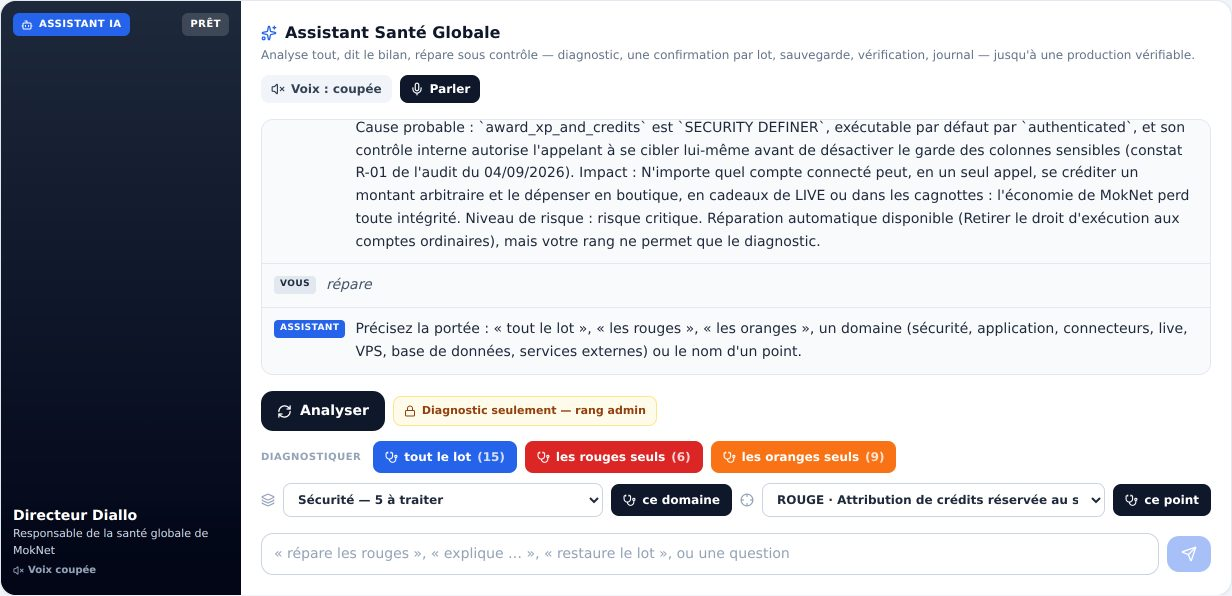
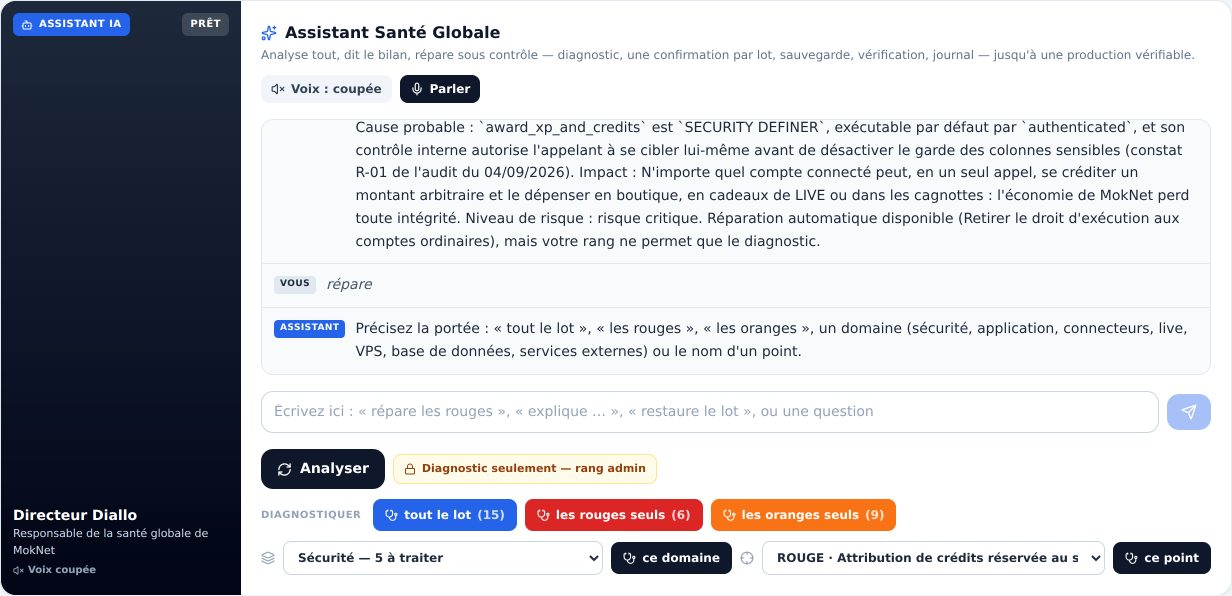
feat(sante): Assistant Santé Globale — le champ de dialogue placé juste sous la conversation, rien à activer (v6.40.1) (#104)
La Direction demandait où se fait le dialogue avec l'Assistant et comment l'activer. Le champ de saisie est désormais juste sous la conversation (touche Entrée ou bouton Envoyer), placeholder « Écrivez ici : … ». Rien n'est à activer : le dialogue est ouvert à tout administrateur, seul l'acte d'appliquer une réparation exige le rang Admin Général (garde serveur inchangée). Captures régénérées (quatre parcours, 0 erreur JS), README des captures « Où se fait le dialogue », mémoire vivante v6.40.1 (DEC-2026-060, ajustement). Typage 0 erreur, 1588/1588 tests.

Claude-Session: https://claude.ai/code/session_01EkBFwqPaEpZguZAEQDfhDx

Changed region(s): [[0.1851, 0.6342, 0.987, 0.9664], [0.9253, 0.6644, 0.987, 0.7248]]

diff --git a/components/admin/HealthAssistant.tsx b/components/admin/HealthAssistant.tsx
@@ -472,6 +472,18 @@ export const HealthAssistant: React.FC<HealthAssistantProps> = ({
                         )}
                     </div>
 
+                    {/* Consigne écrite — juste sous le dialogue, là où l'on répond à ce qu'on vient de lire */}
+                    <form onSubmit={envoyer} className="flex items-center gap-2">
+                        <label htmlFor="assistant-saisie" className="sr-only">Consigne ou question</label>
+                        <input id="assistant-saisie" type="text" value={saisie} onChange={(e) => setSaisie(e.target.value)} autoComplete="off"
+                               placeholder="Écrivez ici : « répare les rouges », « explique … », « restaure le lot », ou une question"
+                               className="flex-1 min-w-0 rounded-xl border border-slate-300 px-3 py-2.5 text-sm text-slate-900 placeholder:text-slate-400 focus:outline-none focus:ring-2 focus:ring-blue-500" />
+                        <button type="submit" disabled={!saisie.trim()} aria-label="Envoyer"
+                                className="px-3.5 py-2.5 rounded-xl bg-blue-600 text-white hover:bg-blue-700 disabled:opacity-40 focus-visible:outline-none focus-visible:ring-2 focus-visible:ring-blue-500">
+                            <Send size={16} />
+                        </button>
+                    </form>
+
                     {/* Commandes */}
                     <div className="space-y-2.5">
                         <div className="flex flex-wrap items-center gap-2">
@@ -545,18 +557,6 @@ export const HealthAssistant: React.FC<HealthAssistantProps> = ({
                     {campagne && (
                         <Progression campagne={campagne} occupe={occupe} onArreter={arreter} />
                     )}
-
-                    {/* Consigne écrite */}
-                    <form onSubmit={envoyer} className="flex items-center gap-2">
-                        <label htmlFor="assistant-saisie" className="sr-only">Consigne ou question</label>
-                        <input id="assistant-saisie" type="text" value={saisie} onChange={(e) => setSaisie(e.target.value)} autoComplete="off"
-                               placeholder="« répare les rouges », « explique … », « restaure le lot », ou une question"
-                               className="flex-1 min-w-0 rounded-xl border border-slate-300 px-3 py-2.5 text-sm text-slate-900 placeholder:text-slate-400 focus:outline-none focus:ring-2 focus:ring-blue-500" />
-                        <button type="submit" disabled={!saisie.trim()} aria-label="Envoyer"
-                                className="px-3.5 py-2.5 rounded-xl bg-blue-600 text-white hover:bg-blue-700 disabled:opacity-40 focus-visible:outline-none focus-visible:ring-2 focus-visible:ring-blue-500">
-                            <Send size={16} />
-                        </button>
-                    </form>
                 </div>
             </div>
 

diff --git a/docs/ETAT_ACTUEL.md b/docs/ETAT_ACTUEL.md
@@ -11,7 +11,7 @@
 
 **5 septembre 2026 — Composeur « A7, rail latéral » et studio « Visuel IA » B10 (DEC-2026-061, v6.26.0 — EN PRODUCTION CONTRÔLÉE, PR #93).** La Direction a choisi, après dix propositions, dix variantes puis deux séries de dix, la variante **A7** pour la zone « créer une publication » et la variante **B10** pour le studio Visuel IA intégré à la publication, avec une production contrôlée à zéro régression. Le composeur garde tout (avatar intouché, champ et invite, Assistant IA, améliorer le style, traduire, hashtags, Visuel IA, Public, Tech & Innovation, photo, vidéo, document, voix, brouillon, publier) et change d'habillage : quatre médias en orbes de cristal sur un rail à gauche du champ (sous le champ sur tablette et téléphone), l'Assistant IA en orbe d'or dans le champ, les quatre actions IA nommées sous le champ (la modale existante s'ouvre directement sur le bon onglet), compteur de caractères, Brouillon | Publier groupés. **« Visuel IA » ouvre un vrai studio de retouche dans la publication** (plein écran sombre) : Prompt — l'IA de la plateforme regarde la photo et renvoie des réglages, jamais une image réinventée ; sans photo, elle génère l'image — ou Réglages manuels (visage & cheveux, lumière, cinéma, texte, cadrage, vidéo), rendus par un vrai pipeline de pixels, avant / après, annuler, réinitialiser, insertion d'un JPEG à pleine résolution qui part avec la publication ; vidéo ré-encodée par le navigateur quand il le permet, message honnête sinon ; la retouche ciblée (yeux, dents, mèche) n'est pas simulée, l'écran le dit. **Contrôle indépendant** : revue « À CORRIGER » (1 bloquant : studio remis à zéro par un re-rendu du parent ; 4 importants : requête de conteneur morte sur tablette / téléphone, réponse IA vide prise pour un succès, focus non rendu, export vidéo Safari ; 15 mineurs) — les 5 premiers et 10 mineurs corrigés et couverts par des tests (DEC-2026-061). **Preuves** : tsc 0, vitest 1233/1233 (86 fichiers, 57 dédiés), build, captures avant/après mesurées à 1440×900, 820×1180 et 390×844 (`docs/captures/2026-09-05-composeur-a7-studio-b10/` : 0 cible sous 40 px contre 7 sur 7 avant, champ de 262 px sur téléphone avec la grille à deux colonnes, avatar 44 × 44 sur les trois écrans, studio ouvert avec racine inerte, insertion vérifiée). Contre-vérification indépendante : les cinq constats confirmés corrigés, une régression relevée (avatar écrasé à 40 × 44 par la colonne de grille) et corrigée. **Production : oui, contrôlée** — feu vert écrit de la Direction (« Feu vert pour avancer vers une production contrôlée […] étape par étape »), PR #93 fusionnée en squash (`36e0a44`) le 5/09 à 12:38 UTC après Green Gate vert sur la tête finale `94514df` (run 33966471120) et contre-vérification indépendante « PRÊT » ; Green Gate vert sur `main` (run 33966591144) ; `moknet.net` sert `index-ggiwFepQ.js` depuis le 5/09/2026 à 12:38:39 UTC (même bundle que le preview contrôlé de la tête `94514df`), la page servie porte les blocs « COMPOSEUR A7 « RAIL LATERAL » (DEC-2026-061) » (`.a7-grille`, `@container a7 (max-width: 560px)`, colonne d'avatar 44 px) et « VISUEL IA — STUDIO PLEIN ECRAN SOMBRE » (`.vis-feuille > * { flex: none; }`), le bundle contient `composeur-a7`, `a7-rail`, `a7-medias-bas`, `a7-etincelle`, `visuel-ia-studio`, « Insérer dans la publication », le message système du retoucheur et l'invite inchangée du champ, l'ancienne barre d'outils en est absente, l'ancien bundle `index-JAHL7yTa.js` répond 404 ; miroir local de la production ouvert dans Chromium (ordinateur et téléphone) : racine React montée, règles `.a7-comp`, `.a7-orbe`, `.vis-feuille`, `.vis-feuille > *` et `@container a7` analysées par le navigateur (le composeur lui-même est derrière la connexion, hors de portée du bac à sable). Retour arrière disponible par `git revert` du squash ; aucun incident constaté. La Direction a annoncé contrôler après coup et transmettre les corrections éventuelles.
 
-**5 septembre 2026 — Assistant IA de Santé Globale (DEC-2026-060, v6.25.0 — EN PRODUCTION CONTRÔLÉE, PR #91 fusionnée en squash `b36318b`, `moknet.net` sert `index-JAHL7yTa.js` depuis le 5/09 à 11:14 UTC).** La Direction a demandé un Assistant IA « vocal et texte, avatar naturel si possible via l'existant, responsable de la santé globale de l'application jusqu'à une production contrôlée ». Sous la barre de commandement de Santé Globale, le panneau **« Assistant Santé Globale »** réutilise l'avatar Directeur Diallo, le moteur vocal partagé (ElevenLabs HD, secours navigateur annoncé) et la reconnaissance du navigateur : **Analyser** scanne tout avec la progression réelle des sondes et dit le bilan (état, santé % sur couverture, sécurité % contre l'audit du 4/09, comptes, priorités, réparations automatiques / manuelles, rang) ; **Réparer** tout le lot / les rouges seuls / les oranges seuls / un domaine / un point enchaîne diagnostic de chaque point, **une seule confirmation** sur le périmètre exact, réparation point par point avec « Boucle i/n · X % », et rapporte chaque point (réparé et vérifié, diagnostiqué, échec avec **cause, étapes exactes et lien**, action manuelle avec l'endroit exact) ; si c'est incontrôlable (réseau, serveur, droits, deux échecs de suite) : **arrêt immédiat** et **« Restaurer le lot »** (sauvegardes rejouées en ordre inverse) ; avec le rang `admin` d'aujourd'hui l'Assistant écrit « Diagnostiquer » et ne modifie rien. Une question libre passe par la passerelle IA avec les mesures en contexte, réponse étiquetée « IA — à vérifier ». 39 tests, harnais sur mesures de production en quatre parcours (`docs/captures/2026-09-05-sante-assistant/`). Pas de vidéo HeyGen (rendu de plusieurs minutes contre une passerelle synchrone — évolution séparée).
+**5 septembre 2026 — Assistant IA de Santé Globale (DEC-2026-060, v6.25.0 — EN PRODUCTION CONTRÔLÉE, PR #91 fusionnée en squash `b36318b`, `moknet.net` sert `index-JAHL7yTa.js` depuis le 5/09 à 11:14 UTC).** La Direction a demandé un Assistant IA « vocal et texte, avatar naturel si possible via l'existant, responsable de la santé globale de l'application jusqu'à une production contrôlée ». Sous la barre de commandement de Santé Globale, le panneau **« Assistant Santé Globale »** réutilise l'avatar Directeur Diallo, le moteur vocal partagé (ElevenLabs HD, secours navigateur annoncé) et la reconnaissance du navigateur : **Analyser** scanne tout avec la progression réelle des sondes et dit le bilan (état, santé % sur couverture, sécurité % contre l'audit du 4/09, comptes, priorités, réparations automatiques / manuelles, rang) ; **Réparer** tout le lot / les rouges seuls / les oranges seuls / un domaine / un point enchaîne diagnostic de chaque point, **une seule confirmation** sur le périmètre exact, réparation point par point avec « Boucle i/n · X % », et rapporte chaque point (réparé et vérifié, diagnostiqué, échec avec **cause, étapes exactes et lien**, action manuelle avec l'endroit exact) ; si c'est incontrôlable (réseau, serveur, droits, deux échecs de suite) : **arrêt immédiat** et **« Restaurer le lot »** (sauvegardes rejouées en ordre inverse) ; avec le rang `admin` d'aujourd'hui l'Assistant écrit « Diagnostiquer » et ne modifie rien. Une question libre passe par la passerelle IA avec les mesures en contexte, réponse étiquetée « IA — à vérifier ». 39 tests, harnais sur mesures de production en quatre parcours (`docs/captures/2026-09-05-sante-assistant/`). Pas de vidéo HeyGen (rendu de plusieurs minutes contre une passerelle synchrone — évolution séparée). **Ajustement v6.40.1 (PR #104)** : le champ de dialogue est placé juste sous la conversation ; rien à activer, le dialogue est ouvert à tout administrateur, seul l'acte d'appliquer une réparation exige le rang Admin Général.
 
 **5 septembre 2026 — Bande « Aurore » du Réseau MOC (DEC-2026-058, v6.23.0 — EN PRODUCTION CONTRÔLÉE, PR #89).** La Direction a choisi, parmi dix variantes bâties sur la direction « Orbes lumineux », la variante 3 « Aurore » et demandé son implémentation seule, sans rien toucher d'autre. La carte d'accès rapide sous le composeur passe de sept pastilles carrées à **seize orbes de cristal** dans l'ordre imposé, une teinte par entrée, en damier sur deux rangées de huit ; l'orbe de la section courante se remplit ; halo qui respire, soulèvement et lueur au survol (vrais pointeurs seulement) ; rail aimanté avec libellés courts sur tablette et téléphone ; tout s'arrête sous `prefers-reduced-motion`. Les sept entrées d'origine gardent leurs actions, les neuf nouvelles ouvrent l'espace du menu latéral qui porte le même nom. **Contrôle indépendant** avant fusion : sept constats (trois importants : halo devant l'orbe au survol, « Fil d'actu » en 17e orbe, contraste de l'orbe active), tous corrigés et revérifiés. **Preuves** : tsc 0, vitest 1104/1104 (78 fichiers), build, 10 tests dédiés, captures avant/après à 1440×900, 820×1180 et 390×844 (`docs/captures/2026-09-05-reseau-bande-aurore/`). **Production : oui, contrôlée** — feu vert écrit dans la mission elle-même (« amener en production […] Livrable : production en place »), PR #89 fusionnée en squash (`6f9d062`) le 5/09 à 09:57 UTC après un Green Gate vert sur la tête finale `2bbe45f` (run 33959258373) et la contre-vérification indépendante « PRÊT » ; Green Gate vert sur `main` (run 33959347666) ; `moknet.net` sert `index-CgZyiRwk.js` depuis 09:57:56 UTC (même bundle que le preview contrôlé), la page servie porte le bloc « BANDE AURORE (DEC-2026-058) », les marqueurs du bundle sont présents et l'ancienne grille absente, l'ancien bundle `index-6F5PzUd7.js` répond 404 ; miroir local de la production ouvert dans Chromium (ordinateur et téléphone) : racine React montée, règles `.aurore-bulle` / orbe courante, `@keyframes aurore-halo` et les deux `@container aurore` analysés, aucune erreur JS applicative. Le contrôle visuel final dans l'application appartient à la Direction.
 

diff --git a/docs/HISTORIQUE_VERSIONS.md b/docs/HISTORIQUE_VERSIONS.md
@@ -55,6 +55,7 @@
 | **v6.36.0** | 5 Septembre 2026 | **Le modèle validé par la Direction (vidéo HeyGen de l'Architecte, expressivité moyenne, 720p, voix HD) devient la base ferme, intégré par ajout : séquence livrée avec l'application (MP4 + WebM, poster, légendes, empreintes vérifiées par les tests), lecteur à états qui rend toujours la main au rig 2D, couche vidéo dans le cadre même de l'avatar, bouton « Voir l'avatar vidéo » sur `/architecte`, « Présentation » dans la barre flottante (invitation une fois par appareil, sans démarrage automatique), réglage Super-Admin et prévisualisation ; rien supprimé** | Avatar de l'Architecte (`services/architecte/sequences.ts`, `ArchitecteSequenceVideo`, page `/architecte`, barre flottante, carte Super-Admin), `public/architecte/vision-smart-heygen.*` | branche `claude/moknet-studio-avatar-rjvvip` / DEC-2026-072 / PR #71 | **Prévisualisation de branche** — typage 0, 1 422 tests / 92 fichiers, build ✓ ; fusion contrôlée préparée, feu vert production attendu |
 | **v6.39.0** | 5 Septembre 2026 | **Avatar vivant depuis une photo : option Super-Admin « Créer ou remplacer l'avatar vivant depuis une photo » — analyse automatique dans le navigateur (MediaPipe : 478 repères du visage, silhouette), cadrage au portrait d'usine, rig et bouche calculés, masque de détourage propre à la photo, aperçu vivant actuel / nouveau, validation, sauvegarde, retour arrière ; le modèle vidéo validé ne se joue que sur son portrait d'origine ; aucun panneau par-dessus l'application ; rien supprimé** | Super-Admin (carte `AdminArchitecteAvatarCard`), `services/architecte/photoAvatar.ts`, `photoAvatarEngine.ts`, `architecteAvatar.ts`, `sequences.ts`, barre flottante, `public/architecte/modeles/`, banc `design-lab/banc/super-admin-avatar.html` | branche `claude/moknet-studio-avatar-rjvvip` / DEC-2026-077 | **Remplacée par la v6.40.0 le 5/09/2026 à 15:13 UTC — était en production contrôlée depuis le 5/09/2026 à 14:25 UTC** : PR #101 fusionnée en squash → `main` `f64f7ee` (Green Gate vert sur `5bb9566`, run 33971591543), `moknet.net` sert `index-Bm6woHcd.js` avec les marqueurs de l'option, morceau MediaPipe et modèles servis (tailles exactes), ancien bundle `index-D0ScDC87.js` → 404 ; typage 0, 1 588 tests / 104 fichiers, build ✓, essai navigateur réel Super-Admin + application, ordinateur + téléphone (14 captures, mesures) |
 | **v6.40.0** | 5 Septembre 2026 | **Réseau MOC : même disposition des boutons de publication et des options sur ordinateur et téléphone — sur téléphone, le rail des médias (Photo, Vidéo, Document, Voix) garde ses libellés et descend sous l'avatar dans la même colonne, les quatre actions IA restent nommées sur une ligne sous leur intitulé, et la bande « Aurore » passe du rail défilant à une grille 4 × 4 (damier conservé) sans aucun défilement horizontal ; ordinateur inchangé ; repli conservé pour les cartes très étroites ; CSS seulement, avatar intouché** | Réseau MOC (composeur A7, bande Aurore), index.html | branche `claude/cleanup-home-interface-szp8qv` / DEC-2026-078 (v6.38.0 et v6.39.0, DEC-2026-075 à 077, prises entre-temps par les PR #98 et #101 du Studio Avatar) | **Courante (Active) — EN PRODUCTION CONTRÔLÉE depuis le 5/09/2026 à 15:13 UTC** : PR #100 fusionnée en squash → `main` `a615593` à 15:12:30 UTC sur feu vert écrit (Green Gate vert sur `a921a2f`, runs 33973191332 et 33973186563, et sur `main`, run 33974090869), `moknet.net` sert la nouvelle feuille depuis 15:13:19 UTC (bundle `index-Bm6woHcd.js` inchangé — CSS seulement ; marqueurs présents, aucun seuil 300/360 px, aucune règle de défilement dans la bande, ancien bundle `index-DnzvQMzK.js` → 404), miroir local vérifié dans Chromium, revue indépendante « À CORRIGER » (6 constats corrigés) puis contre-vérification « PRÊT » ; typage 0 erreur, 1589/1589 tests (104 fichiers), build OK, captures et mesures avant/après sur six écrans (`docs/captures/2026-09-05-reseau-meme-disposition-telephone/`, script `mesurer.cjs` versionné) |
+| **v6.40.1** | 5 Septembre 2026 | **Assistant IA de Santé Globale : le champ de dialogue est placé juste sous la conversation (touche Entrée ou bouton Envoyer), placeholder « Écrivez ici : … » ; rien à activer, le dialogue est ouvert à tout administrateur, seul l'acte d'appliquer une réparation exige le rang Admin Général** | Super-Admin / Santé Globale (`components/admin/HealthAssistant.tsx`) | branche `claude/moknet-security-audit-ohfwc1` / DEC-2026-060 (ajustement) / PR #104 | **PR #104 ouverte — fusion en squash après Green Gate, bundle servi à vérifier** : typage 0 erreur, 1588/1588 tests (104 fichiers), harnais Chromium sur mesures de production du 5/09 (quatre parcours, 0 erreur JS, captures régénérées dans `docs/captures/2026-09-05-sante-assistant/`) |
 | **v6.38.0** | 5 Septembre 2026 | **Zéro obstruction strict : l'Architecte guide dans l'interface visible, jamais par-dessus — le panneau de conversation ne s'ouvre plus JAMAIS de lui-même (réponse longue, image, document ou vidéo : signalés par un point sur la flèche, dépliés seulement par la personne) ; Écrire ouvre une seule ligne de saisie ; rouvrir repart toujours de la barre minimale ; panneau borné à min(36 vh, 18 rem) ; obstruction mesurée après une réponse longue : 2,6 % de l'écran sur ordinateur, 6,8 % sur téléphone, panneau absent, dock libre ; rien supprimé ; **identité officielle « Je suis l'Architecte de Vision Smart » (jamais « avatar » ni « IA »), description validée servie sans modèle, ton bref, dit quand il ne comprend pas ; entrée directe sur Réseau MokNet dès connexion ou inscription, sans rechargement** | Avatar de l'Architecte (barre flottante `ArchitecteFloatingBar`, cerveau `architecteBrain`), entrée `App.tsx`, banc `design-lab/banc/sculpture.html` | branche `claude/moknet-studio-avatar-rjvvip` / DEC-2026-075, DEC-2026-076 | **Remplacée par la v6.39.0 le 5/09/2026 à 14:25 UTC — était en production contrôlée depuis le 5/09/2026 à 14:11 UTC** : PR #98 fusionnée en squash → `main` `022a224` (Green Gate vert sur `4774573`, run 33970158515), `moknet.net` sert `index-D0ScDC87.js` avec les huit marqueurs attendus (ancien bundle `index-DnzvQMzK.js` → 404) ; typage 0, 1 573 tests / 102 fichiers, essai navigateur réel ordinateur + téléphone (16 captures, obstruction mesurée), test d'entrée App réelle |
 | **v6.37.0** | 5 Septembre 2026 | **La sculpture vivante : l'avatar validé (vidéo HeyGen) remplace directement le bouton flottant de l'Architecte, au même emplacement, détouré image par image (204 mattes relevées en local, vidéo empilée couleurs + alpha recomposée dans un canevas), sans cadre ni page ; seul visible par défaut ; au clic il parle (modèle validé, dans le geste) et n'ouvre qu'une petite barre d'icônes à côté de lui — accueil et micro attendent la fin de la vidéo ; panneau étroit à la demande (flèche) ; **zéro obstruction mesurée** (0,9 % de l'écran au repos, 2,4 % barre ouverte sur ordinateur ; dock libre sur téléphone) ; calage vidéo ↔ portrait mesuré sur les pupilles ; lecteur corrigé d'après la relecture indépendante (double appui, fin réelle, arrêt par cadre) ; rien supprimé, rig 2D en repli** | Avatar de l'Architecte (`ArchitecteAvatar` variante `sculpture`, `ArchitecteSequenceCutout`, barre flottante), `public/architecte/vision-smart-heygen.cutout.*`, `architecte-silhouette.png`, banc `design-lab/banc/sculpture.html` | branche `claude/moknet-studio-avatar-rjvvip` / DEC-2026-073 / PR #71 | **Remplacée par la v6.38.0 le 5/09/2026 à 14:11 UTC — était en production contrôlée depuis le 5/09/2026 à 13:01 UTC** : PR #71 fusionnée en squash → `main` `d9c2c2c` (Green Gate vert sur `9dd10f1`, run 33967521429), `moknet.net` sert `index-DnzvQMzK.js` avec les marqueurs de la sculpture (ancien bundle `index-ggiwFepQ.js` → 404), actifs détourés servis avec tailles et empreintes attendues, page `/architecte` vérifiée en Chromium réel ; typage 0, 1 562 tests / 101 fichiers, build ✓, essai navigateur réel ordinateur + téléphone (captures, obstruction mesurée) |
 

diff --git a/docs/modules/14_securite_et_infrastructure.md b/docs/modules/14_securite_et_infrastructure.md
@@ -44,6 +44,6 @@
 - **Terminé et en production contrôlée (5 septembre 2026, DEC-2026-055, v6.20.0)** : **SAT-5** — relance automatique bornée d'un direct gardée par l'état réel en base, écran « Ce direct est terminé. » sur un direct clos, et clôture horaire des directs zombies par `pg_cron` (première exécution réelle : 13 fermés, tracés dans `audit_logs`) ; prouvé au banc réel 39/39 contre un LiveKit vivant ; la frontière VPS (conteneur, clé, ports, version) reste à SAT-6/ACT.
 - **Terminé et en production contrôlée (5 septembre 2026, DEC-2026-057, v6.22.0, PR #86)** : **Santé Globale v2** — santé et sécurité en % (audit du 4/09 intégré : 61 % de référence, 51 % mesuré sur 84 % le 5/09), graphiques et progression des vagues P0/P1/P2, sept domaines × rouge/orange/vert, fiche problème/cause/impact/risque/action sur 58 lignes, action manuelle guidée (endroit exact, lien, étapes) seulement quand rien d'automatique n'existe, jamais de faux bouton ; sondes nouvelles : CORS réel des fonctions (5/6 répondent `*`), VPS (façade + `/rtc/validate`), rang Admin Général (migration `20260905090000`, aucun droit ni donnée touchés).
 - **Fonction Edge v4 DÉPLOYÉE ET VÉRIFIÉE EN PRODUCTION, client FUSIONNÉ, EN PRODUCTION CONTRÔLÉE (5 septembre 2026, DEC-2026-059, v6.24.0, PR #88 → `4486cc4`)** : **SAT-6** — le bouton de secours du direct, réservé à l'Admin Général : relancer la room d'un direct ou le clore depuis la Santé Globale, sans SSH ; rang relu **en base** (`health_my_rank`) avant toute lecture et de nouveau au geste, diagnostic qui compte les présents réels, confirmation signée (HMAC, cinq minutes, liée au geste, au direct et à l'acteur), re-mesure avant verdict, journal `audit_logs` (`health.emergency`) ; la clôture passe par la RLS avec l'identité de l'appelant, jamais par le rôle service ; les gestes SSH (conteneur, clé, ports UDP, version) sont listés comme action humaine. Greffé sur la Santé Globale v2 (panneau « Secours du direct » avant le journal, entrées « Secours » dans le journal). Le banc réel a aussi fait corriger deux défauts pré-existants : la fiche problème et la modale de réparation étaient cadrées sur l'onglet et non sur la fenêtre — un `transform` identité laissé par l'animation d'entrée piège tout `position:fixed`, désormais rendues par portail — et un spectateur pouvait être éjecté à son arrivée par une course du roster du direct. Mise en production contrôlée validée par la Direction le 5/09 (10h40 UTC) et menée dans l'ordre imposé : retour arrière v3 vérifié identique à l'ancienne production, fonction Edge v4 déployée à 10:49:57 UTC (source relue identique octet pour octet), backend vérifié avec trois vraies sessions (`probe` 45 lignes comme la v3, 403 `user`, lecture seule `admin`, gestes `super_admin`), geste réel « Clore » joué sur un direct de banc privé avec ligne `audit_logs` réelle ; client : PR #88 en fusion, bundle servi et contrôle du tableau de bord réel consignés ensuite. Le compte de la Direction est `admin` : lecture seule (« Diagnostic seulement ») tant qu'il ne porte pas le rang `super_admin`.
-- **Terminé et en production contrôlée (5 septembre 2026, DEC-2026-060, v6.25.0, PR #91 → `main` `b36318b`, `moknet.net` sert `index-JAHL7yTa.js`)** : **Assistant IA de Santé Globale** — vocal et texte, avatar existant ; Analyser avec progression réelle et bilan dit ; Réparer tout le lot / les rouges seuls / les oranges seuls / un domaine / un point avec une seule confirmation par lot et le pourcentage à chaque boucle ; échec → cause, étapes exactes, lien ; arrêt immédiat si incontrôlable et retour à l'état stable (restauration du lot) ; « Diagnostiquer » quand le rang ne permet pas d'appliquer. Aucune table, migration ni fonction Edge nouvelle ; pas de vidéo HeyGen (passerelle synchrone).
+- **Terminé et en production contrôlée (5 septembre 2026, DEC-2026-060, v6.25.0, PR #91 → `main` `b36318b`, `moknet.net` sert `index-JAHL7yTa.js`)** : **Assistant IA de Santé Globale** — vocal et texte, avatar existant ; Analyser avec progression réelle et bilan dit ; Réparer tout le lot / les rouges seuls / les oranges seuls / un domaine / un point avec une seule confirmation par lot et le pourcentage à chaque boucle ; échec → cause, étapes exactes, lien ; arrêt immédiat si incontrôlable et retour à l'état stable (restauration du lot) ; « Diagnostiquer » quand le rang ne permet pas d'appliquer. Aucune table, migration ni fonction Edge nouvelle ; pas de vidéo HeyGen (passerelle synchrone). Ajustement v6.40.1 (PR #104) : champ de dialogue placé juste sous la conversation, rien à activer.
 - **Partiel / En cours** : Authentification biométrique WebAuthn / Passkeys ; email/mot de passe réel (reporté, Google restait prioritaire).
 - **Évolutions Prévues** : Détection proactive des anomalies de connexion et alertes par notification push chiffrée ; activation de la protection "mots de passe compromis" de Supabase Auth une fois l'email/mot de passe implémenté.

diff --git a/docs/JOURNAL_DECISIONS.md b/docs/JOURNAL_DECISIONS.md
@@ -1867,6 +1867,14 @@ Chaque décision respecte le formalisme strict suivant :
   du bundle servi par `moknet.net`, captures avec le chemin exact. La
   promotion du profil de la Direction au rang `super_admin` reste une
   décision de la Direction (mot écrit).
+* **Ajustement du 5/09 (v6.40.1, PR #104)** : la Direction a demandé où se
+  fait le dialogue et comment l'activer. Le champ de saisie, jusque-là sous
+  les boutons de commande et la progression, est placé juste sous la
+  conversation (touche Entrée ou bouton Envoyer), avec le placeholder
+  « Écrivez ici : … ». Rien n'est à activer : le dialogue (analyser,
+  expliquer, diagnostiquer, questions libres, voix, micro) est ouvert à tout
+  administrateur ; seul l'acte d'appliquer une réparation exige le rang
+  Admin Général. Le README des captures dit désormais où se fait le dialogue.
 * **Statut** : 🟢 DÉPLOYÉ ET VÉRIFIÉ EN PRODUCTION CONTRÔLÉE (5/09/2026,
   11:14 UTC) — PR #91 fusionnée en squash → `main` `b36318b` (Green
   Gate run 33962624632 vert sur `5b265dd`) ; `moknet.net` sert

diff --git a/docs/captures/2026-09-05-sante-assistant/README.md b/docs/captures/2026-09-05-sante-assistant/README.md
@@ -5,6 +5,13 @@
 **« Assistant Santé Globale »** (juste sous la barre de commandement, avant
 les graphiques).
 
+**Où se fait le dialogue** : dans ce panneau, le champ « Écrivez ici : … »
+placé juste sous la conversation (touche Entrée ou bouton Envoyer), ou le
+bouton « Parler » (micro du navigateur, autorisation demandée au premier clic).
+Rien à activer : le dialogue est ouvert à tout administrateur ; seul l'acte
+d'appliquer une réparation exige le rang Admin Général. Captures régénérées
+le 5/09 après le déplacement du champ sous la conversation (v6.40.1).
+
 **Comment ces captures ont été produites** : le composant de production
 (`components/admin/AdminHealthTab.tsx`, Assistant compris) rendu dans un
 harnais Chromium local sur les **mesures de production relevées le
